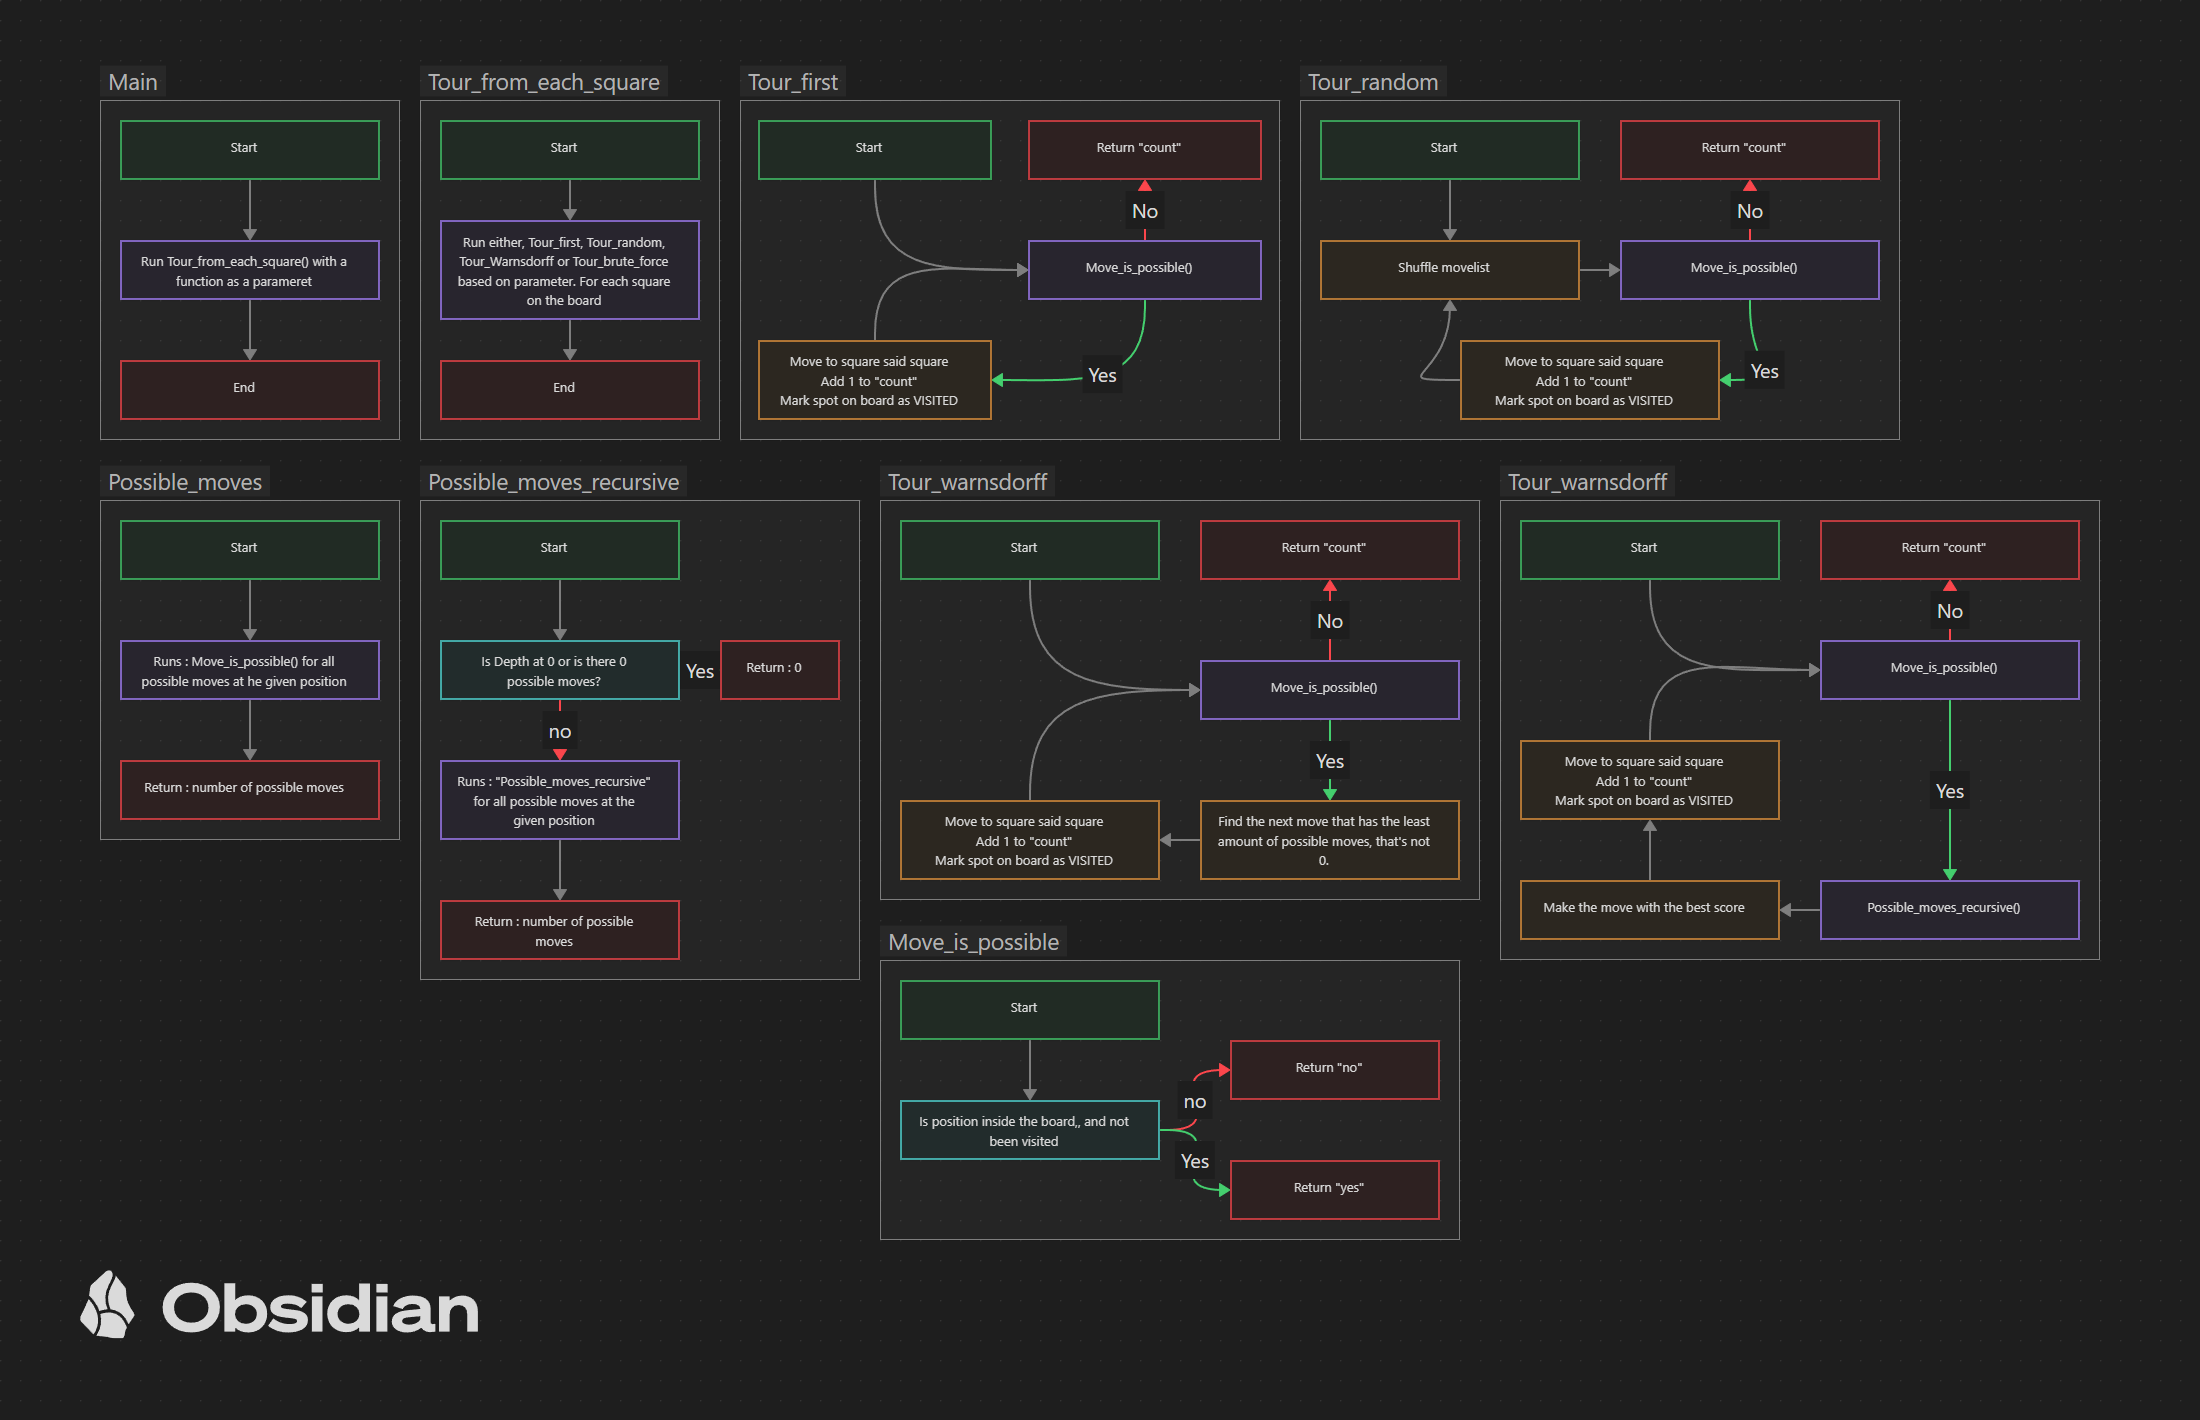
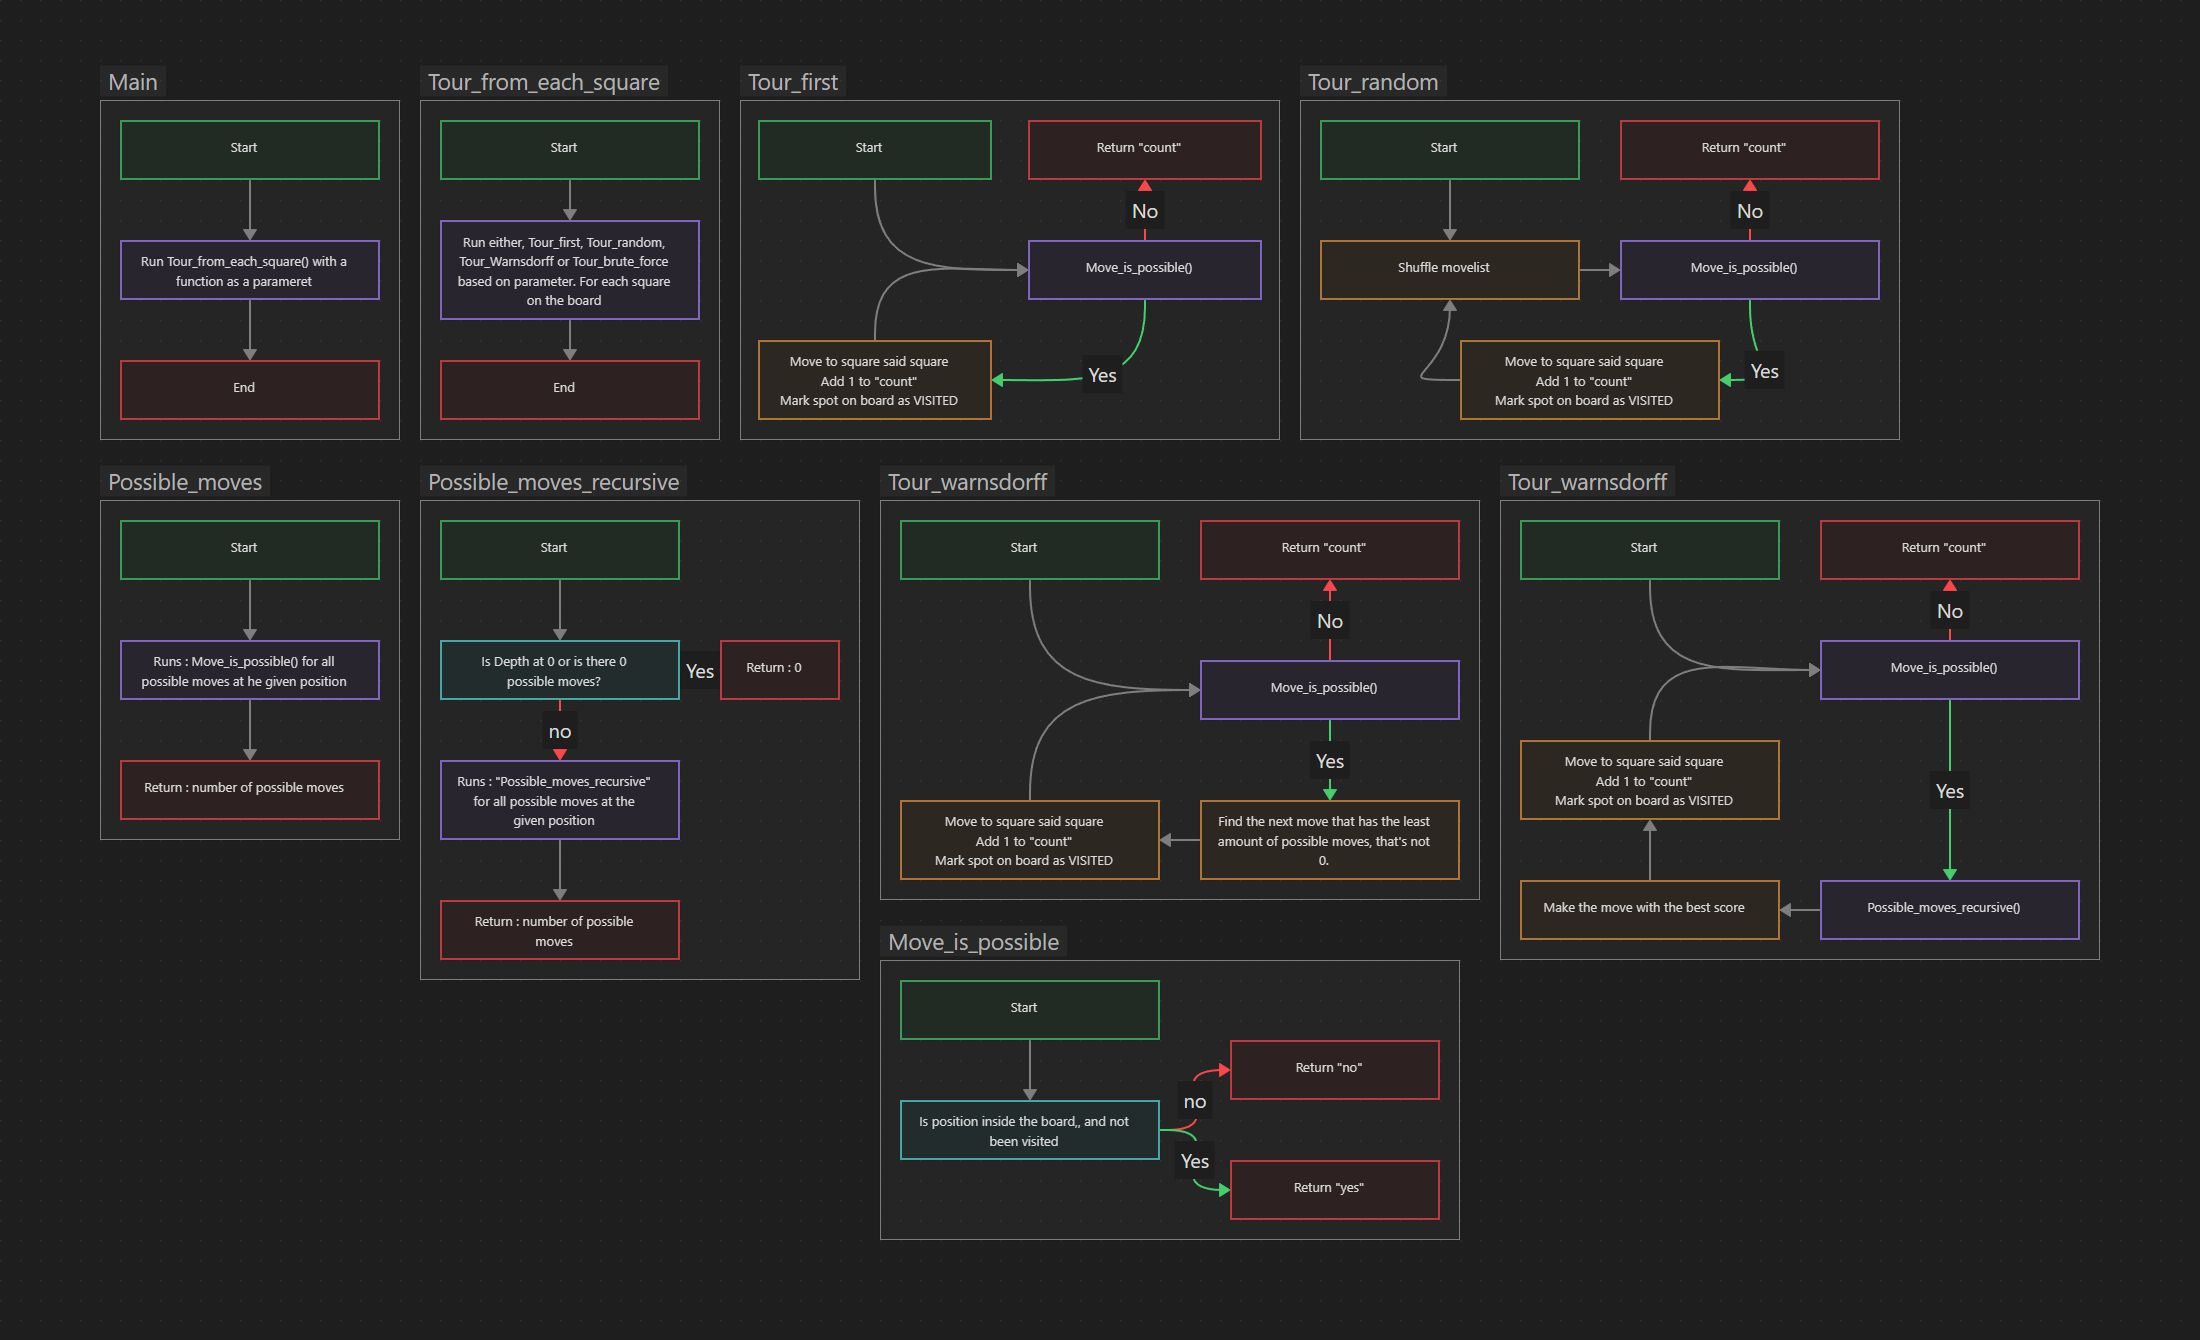
fixed error in that caused warnstoff to exit to early

diff --git a/.src/knights_tour.c b/.src/knights_tour.c
@@ -187,8 +187,8 @@ Start:
   /* apply best move */
   x += MOVES[best_move_id][0];
   y += MOVES[best_move_id][1];
-  chessboard[x][y] = VISITED;
   ++count;
+  chessboard[x][y] = count + VISITED;
   goto Start;
 }
 
@@ -196,7 +196,7 @@ unsigned int Tour_warnsdorff(size_t x, size_t y)
 {
   board_t chessboard = {0};
   chessboard[x][y] = VISITED;
-  unsigned int count = 0;
+  unsigned int count = 1;
 
   int move_ids[MOVE_COUNT];
   for (int i = 0; i < MOVE_COUNT; i++)
@@ -214,7 +214,7 @@ Start:
 
     int score = Possible_moves(x + MOVES[i][0], y + MOVES[i][1], chessboard);
 
-    if (score > best_score || score == 0)
+    if (score > best_score)
     {
       continue;
     }
@@ -244,8 +244,8 @@ Start:
   /* apply best move */
   x += MOVES[best_move_id][0];
   y += MOVES[best_move_id][1];
-  chessboard[x][y] = count + 2;
   ++count;
+  chessboard[x][y] = count;
   goto Start;
 }
 

diff --git a/.include/knights_tour.h b/.include/knights_tour.h
@@ -1,7 +1,7 @@
 #include <stddef.h>
 #include <time.h>
 
-#define SIZE 10       /**< Board size. */
+#define SIZE 8       /**< Board size. */
 #define VISITED 1    /**< Been there */
 #define MOVE_COUNT 8 /**< Number of moves that a knight can make */
 #define DEPTH 8      /**< Depth of recursion. */
